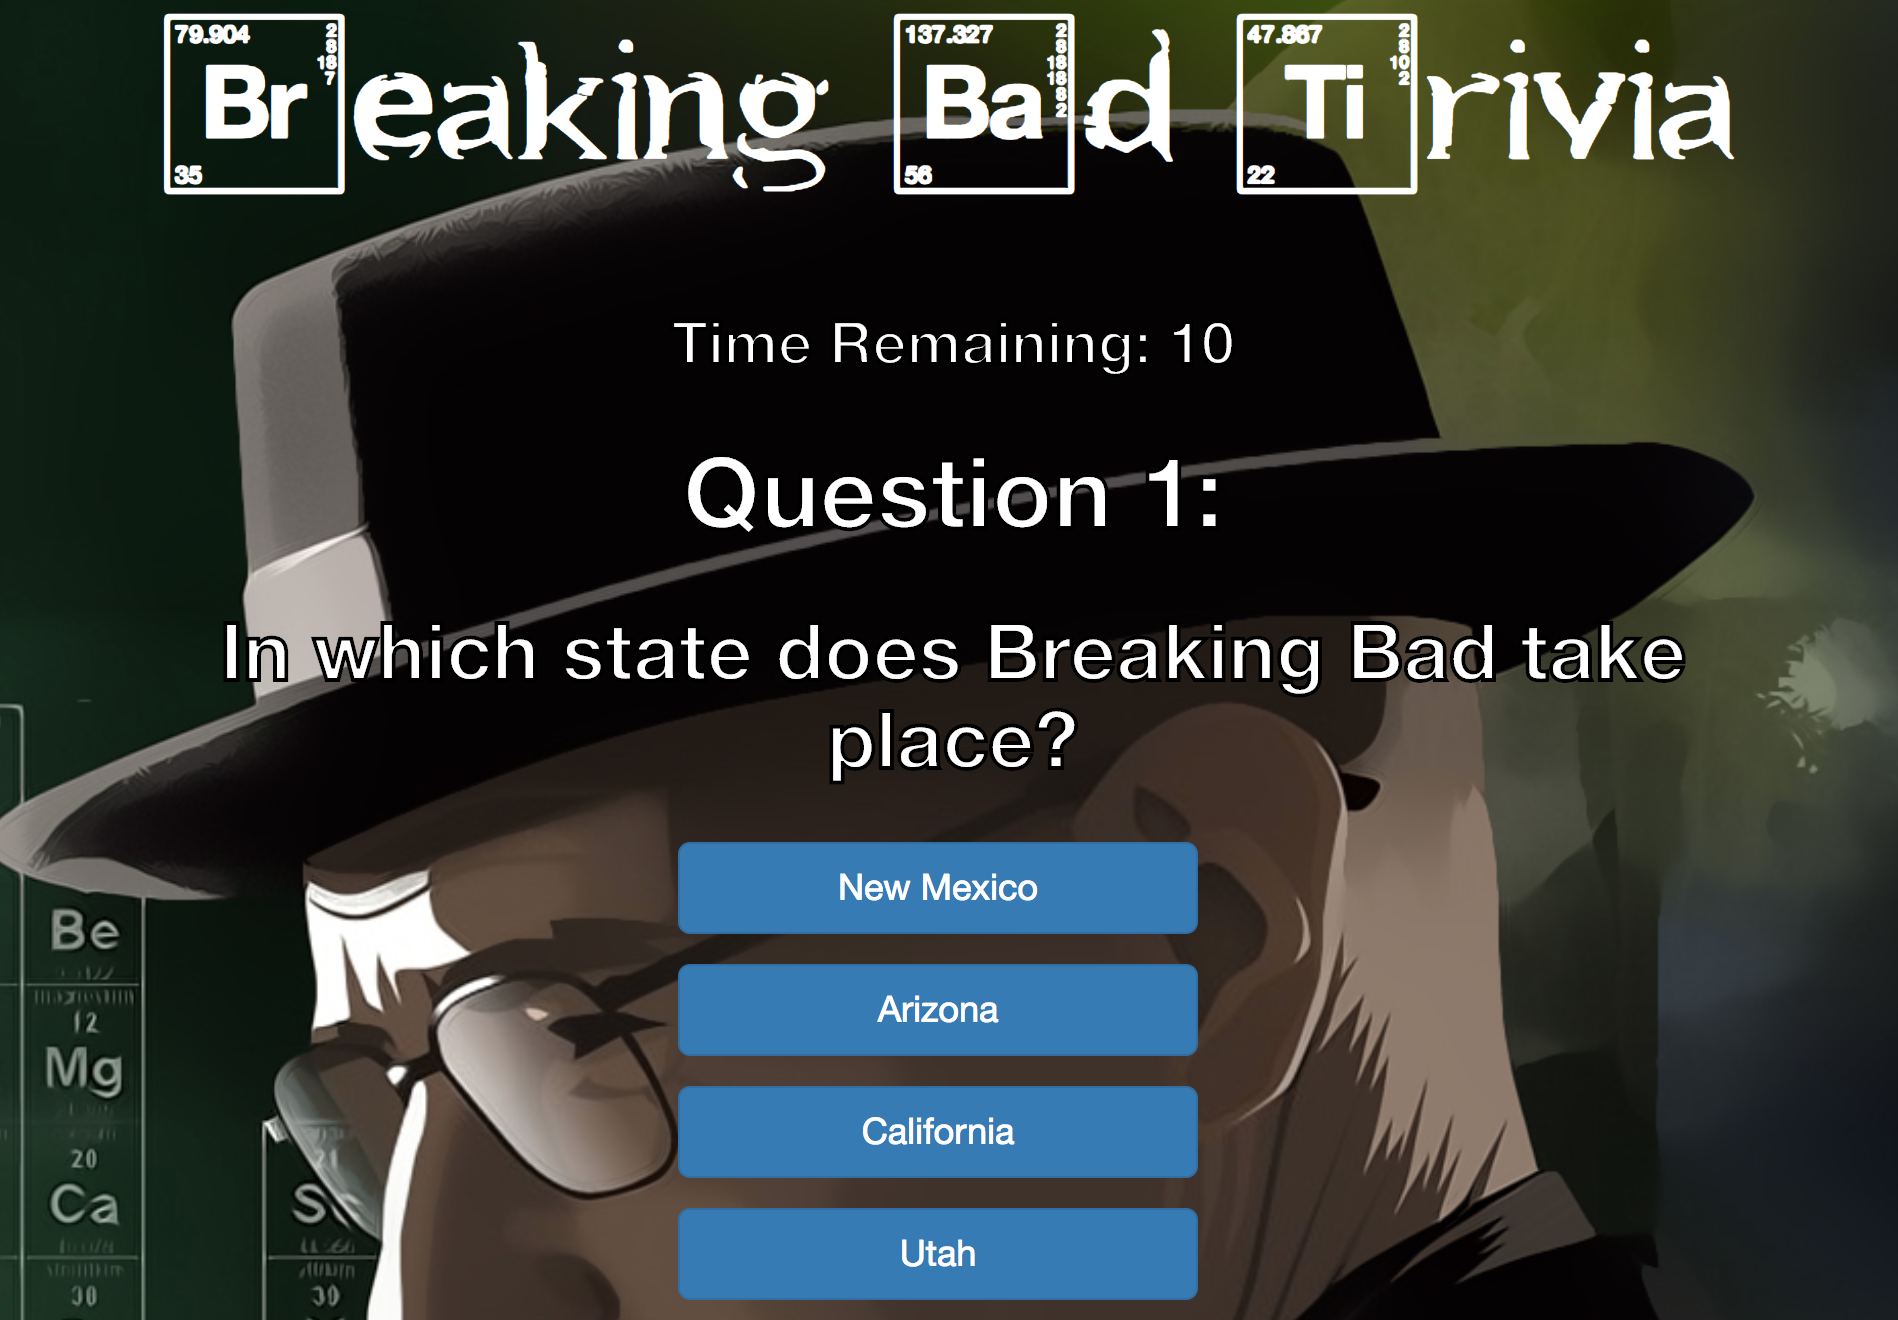
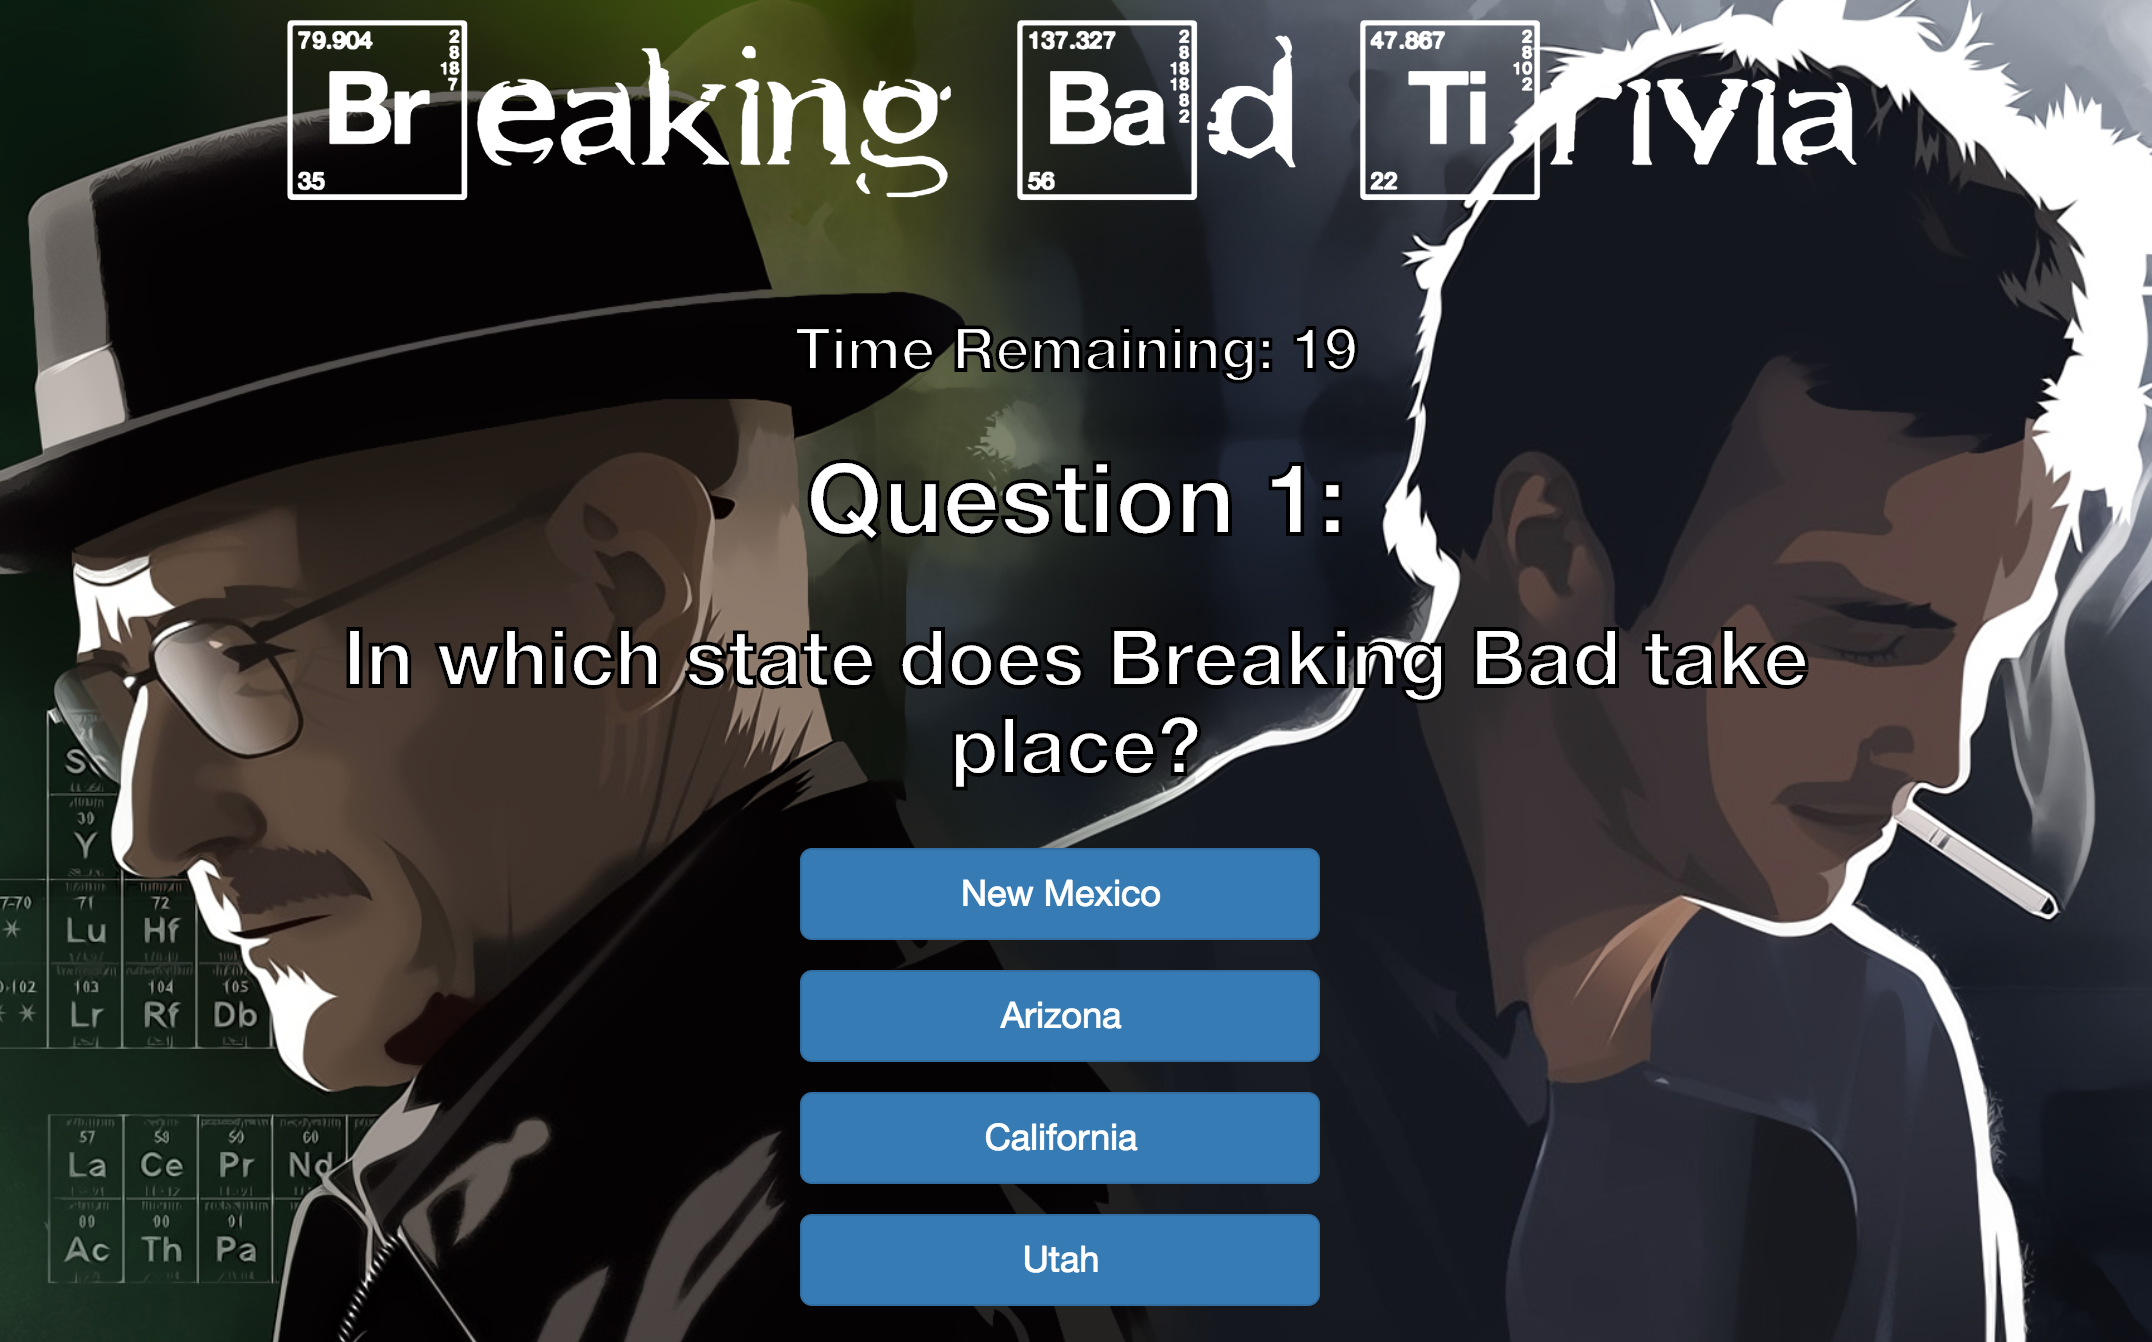
portfolio screenshots

diff --git a/portfoliostyle.css b/portfoliostyle.css
@@ -1,7 +1,8 @@
 body {
-    background: url("assets/images/Background.gif");
-    background-size: 50%;
-    background-position-y: -150px;
+    background-size: cover;
+    background: url("assets/images/Background.gif") no-repeat center center fixed;
+    /* background-size: 50%;
+    background-position-y: -150px; */
     font-family: Georgia, Times, "Times New Roman", serif;
 }
 h1, h2 {
